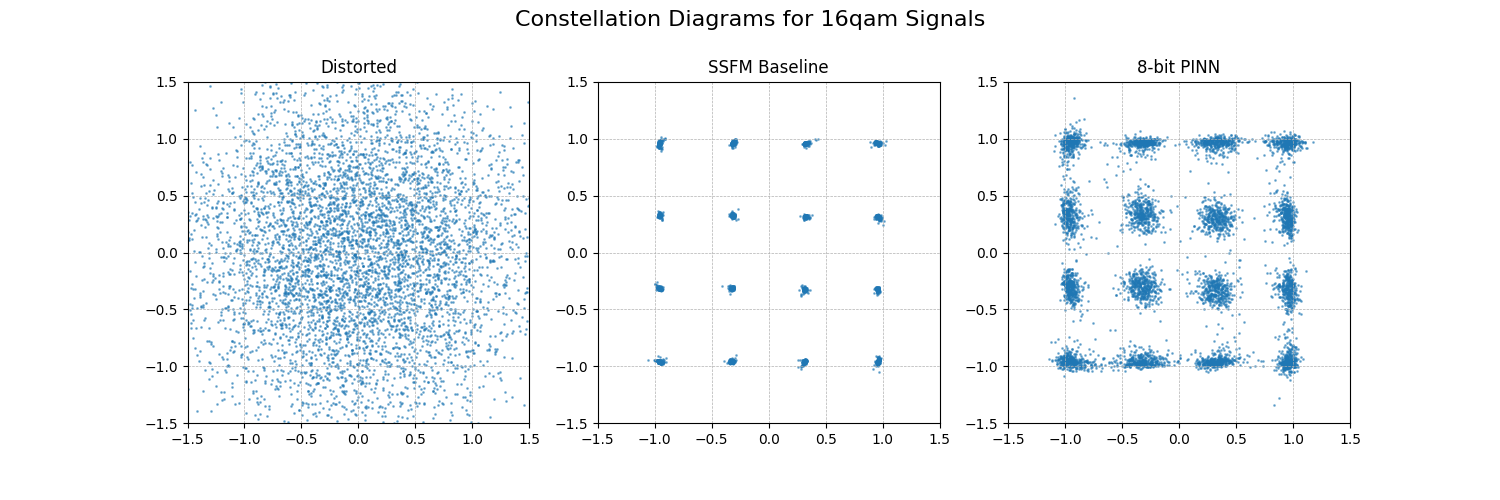
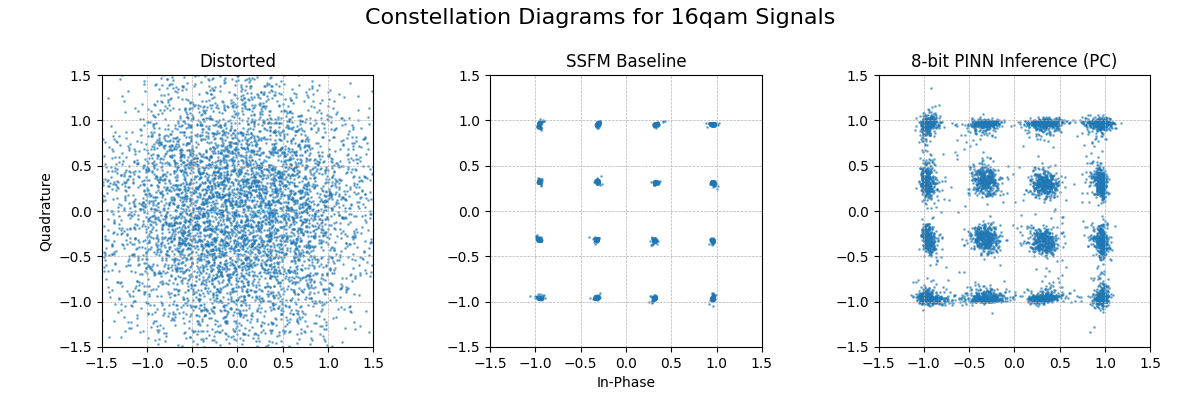
fix: graph axis + tight layout

diff --git a/createPINN.py b/createPINN.py
@@ -252,15 +252,18 @@ def main():
 
         if args.visual:
             # visualize constellation diagrams
-            fig, ax = plt.subplots(1, 3, figsize=(15, 5))
+            fig, ax = plt.subplots(1, 3, figsize=(12, 4))
             sigs = [dist_f, dbp_f, pinn_f]
-            titles = ["Distorted", "SSFM Baseline", "8-bit PINN"]
+            titles = ["Distorted", "SSFM Baseline", "8-bit PINN Inference (PC)"]
             for i in range(3):
                 ax[i].scatter(sigs[i].real, sigs[i].imag, s=1, alpha=0.5)
                 ax[i].set_title(titles[i]); ax[i].set_aspect('equal')
                 ax[i].grid(visible=True, which='both', linestyle='--', linewidth=0.5)
                 ax[i].set_xlim(-1.5, 1.5); ax[i].set_ylim(-1.5, 1.5)
             fig.suptitle(f"Constellation Diagrams for {args.sig_type} Signals", fontsize=16)
+            ax[1].set_xlabel("In-Phase")
+            ax[0].set_ylabel("Quadrature")
+            plt.tight_layout(rect=[0, 0.03, 1, 0.95])
             plt.savefig(comparison_fig_path)
             logger.log(logging.INFO, f"Constellation comparison figure saved at {comparison_fig_path}.")
 
